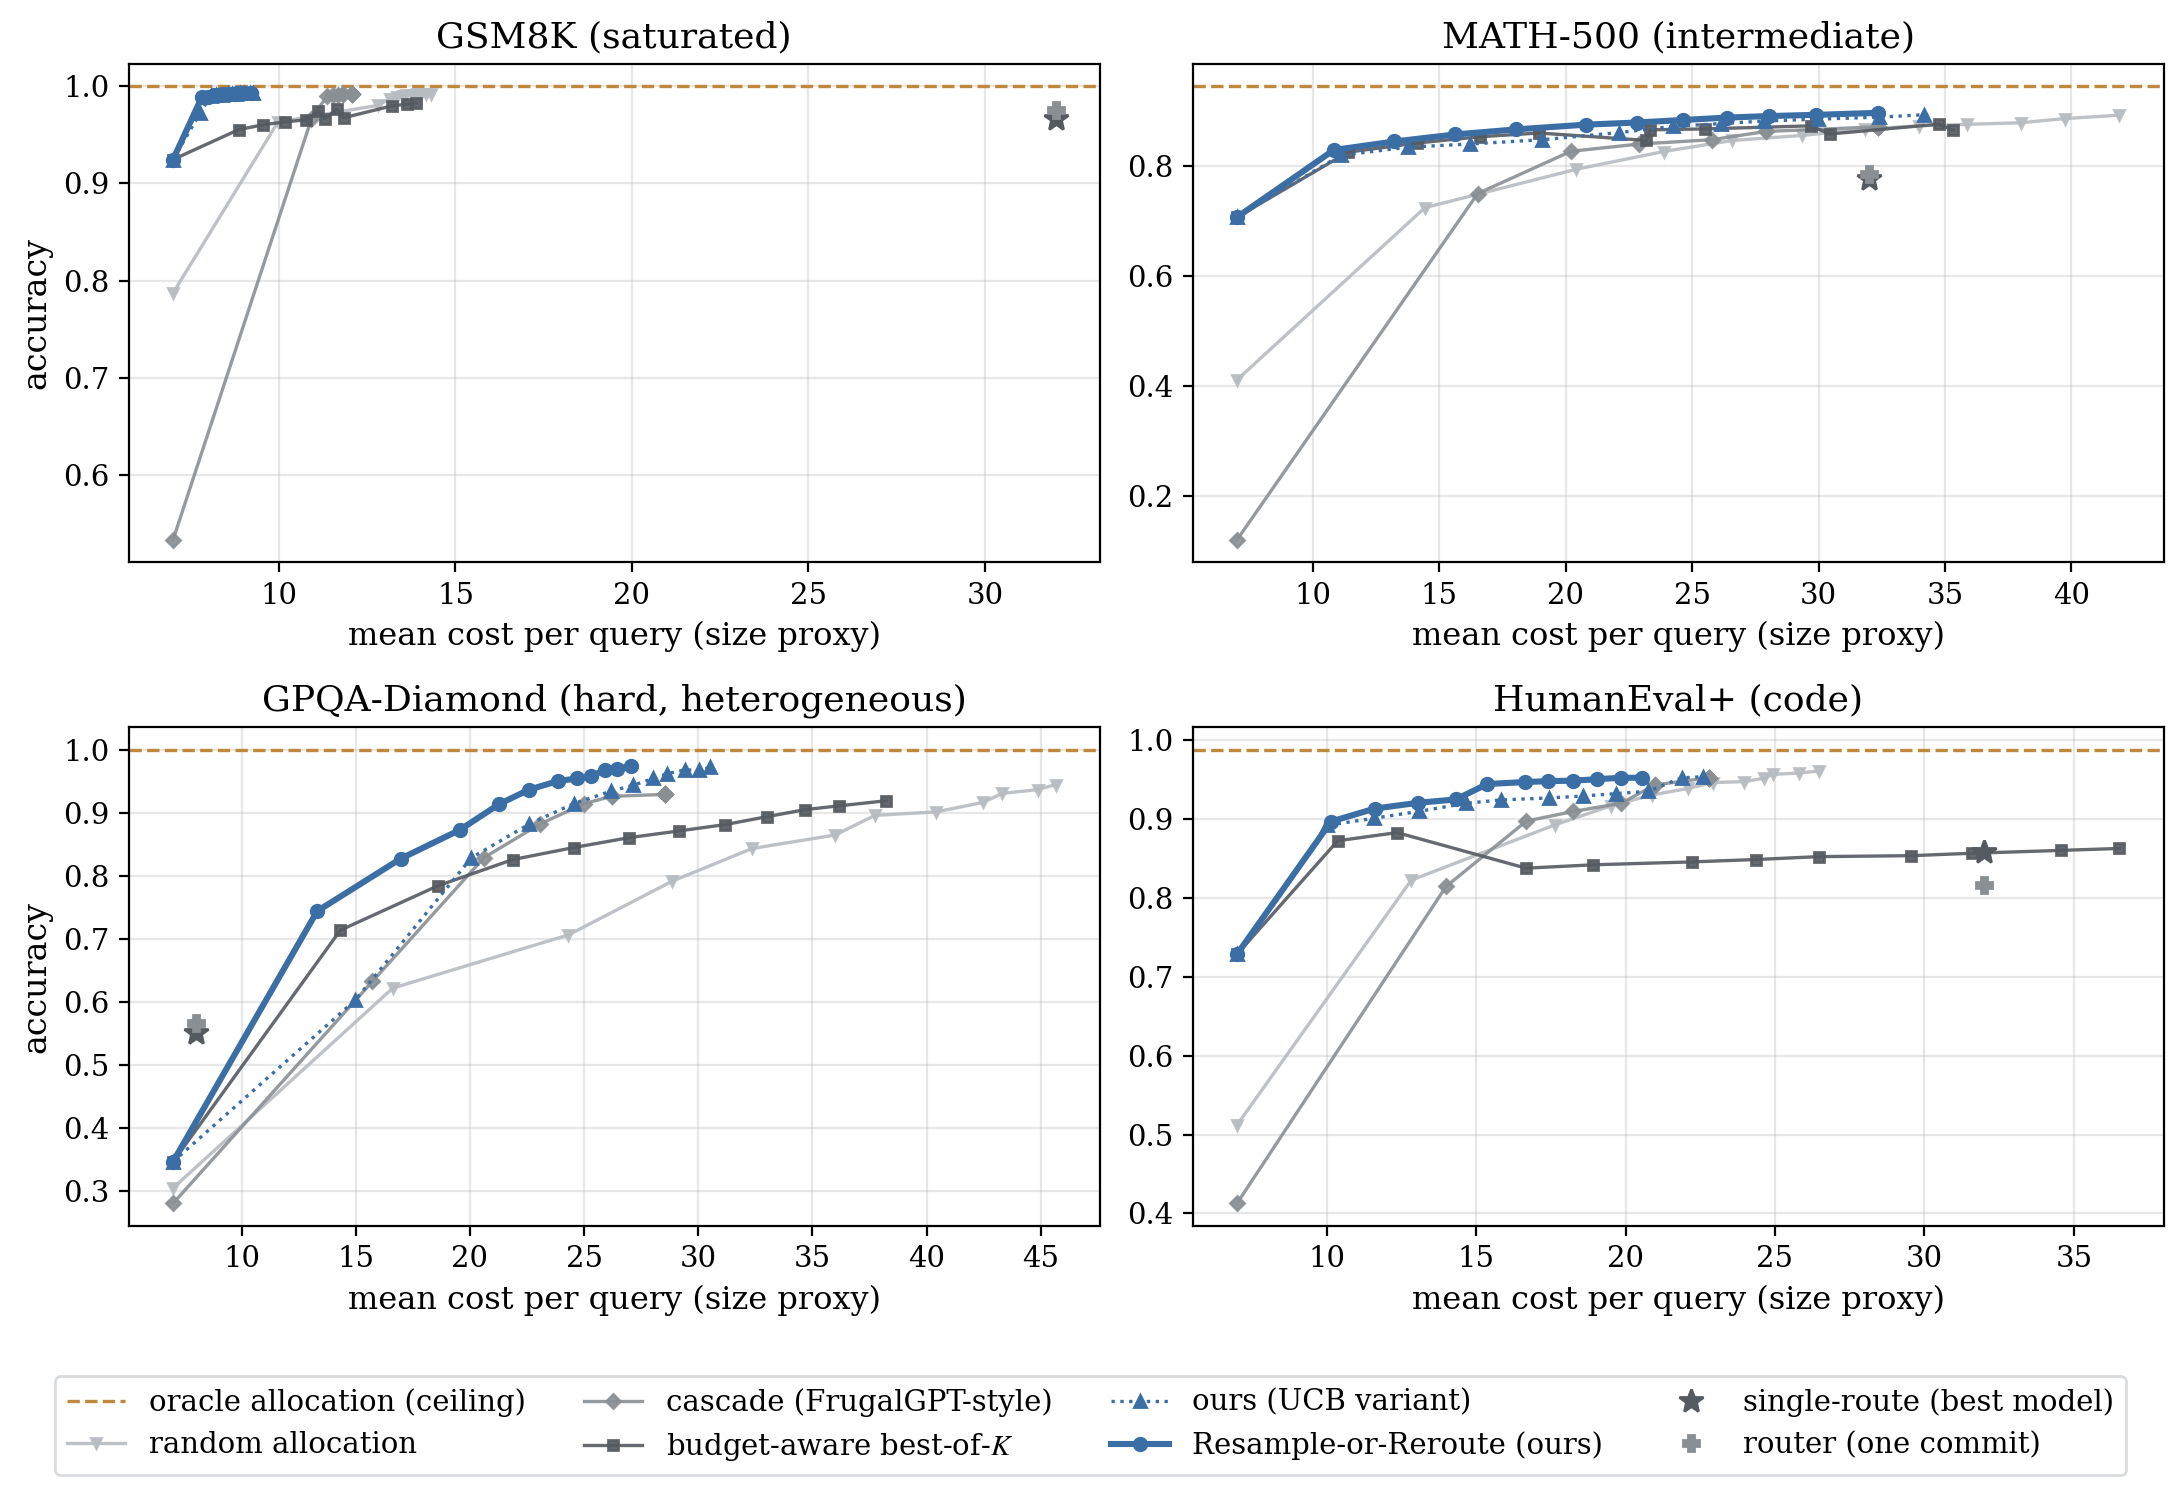
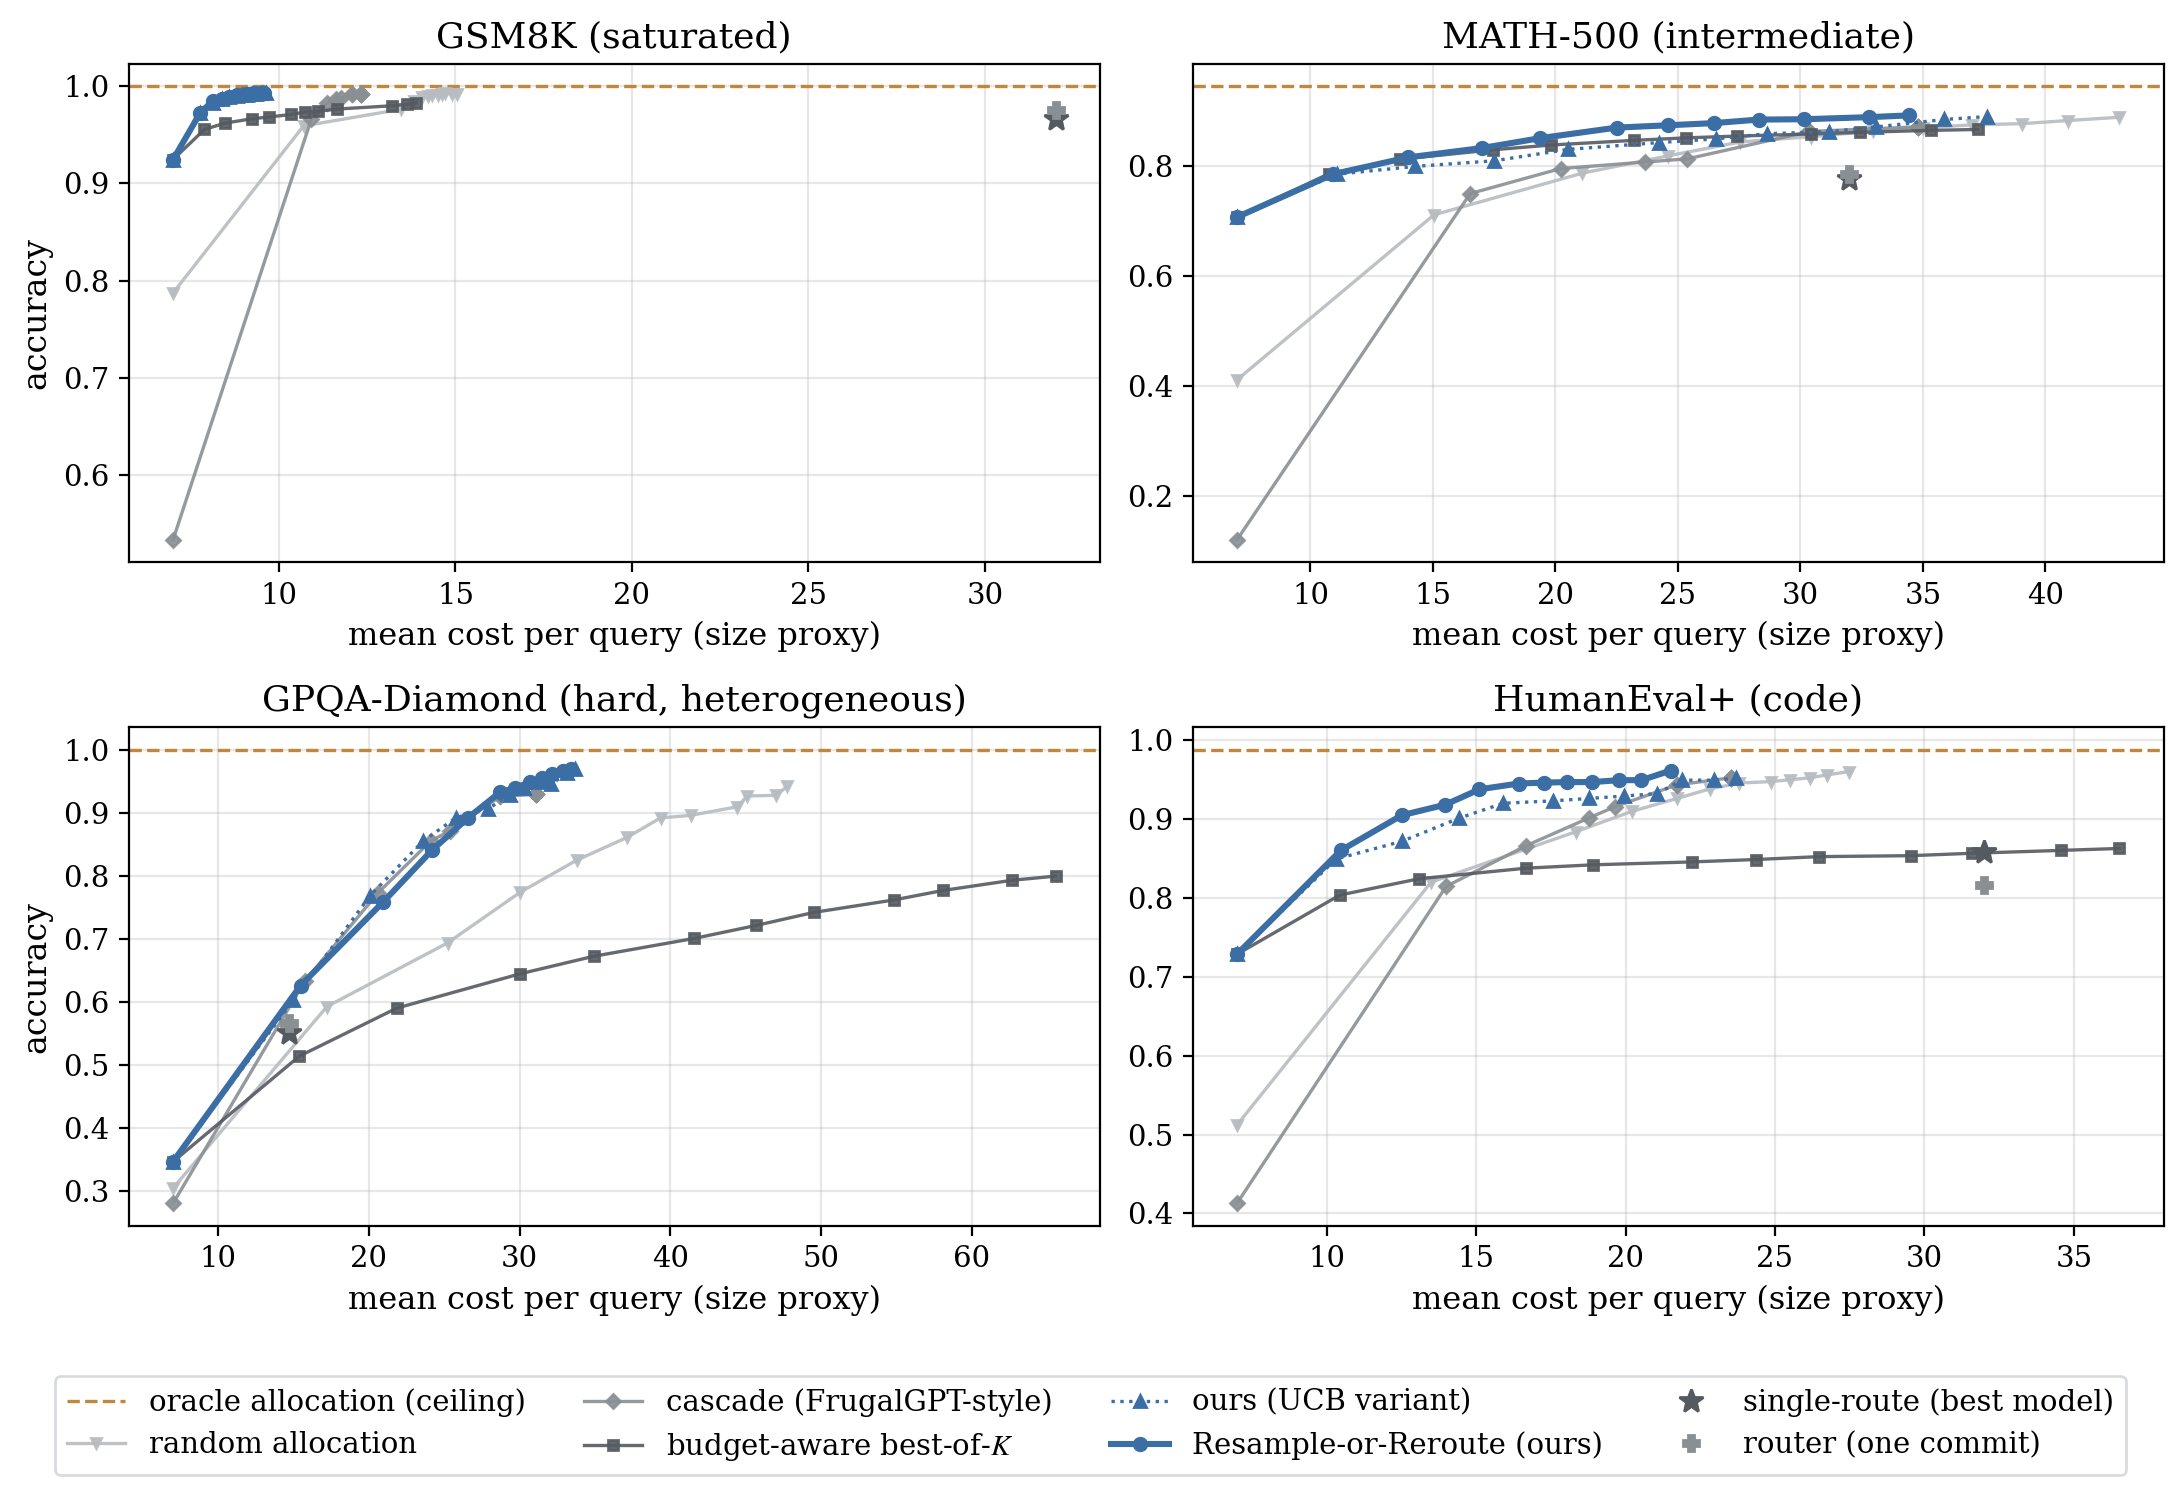
docs: refresh README numbers and figures for the corrected-cost (v2) results

diff --git a/README.md b/README.md
@@ -55,10 +55,10 @@ parameter-size proxy):
 
 | Policy | GSM8K | MATH-500 | GPQA-Diamond | HumanEval+ |
 |---|---:|---:|---:|---:|
-| **Resample-or-Reroute (ours)** | **0.993** | **0.887** | **0.968** | 0.952 |
-| budget-aware best-of-$K$ | 0.983 | 0.867 | 0.861 | 0.852 |
-| cascade (FrugalGPT-style) | 0.992 | 0.847 | 0.926 | 0.952 |
-| random allocation | 0.992 | 0.846 | 0.706 | 0.959 |
+| **Resample-or-Reroute (ours)** | **0.993** | **0.877** | **0.892** | **0.962** |
+| budget-aware best-of-$K$ | 0.983 | 0.850 | 0.644 | 0.852 |
+| cascade (FrugalGPT-style) | 0.992 | 0.812 | 0.872 | 0.952 |
+| random allocation | 0.992 | 0.818 | 0.693 | 0.952 |
 | single-route (best model) | 0.966 | 0.776 | 0.551 | 0.858 |
 | oracle allocation (ceiling) | 1.000 | 0.944 | 1.000 | 0.988 |
 
@@ -79,14 +79,16 @@ worth more than blind additional budget. See the figure above.
 
 ## Result 2 — Where the win comes from depends on the pool
 
-- **Saturated (GSM8K)** — the win is *cost*: 0.993 at 24–34% lower cost than
-  cascade / best-of-$K$, and 3.5× cheaper than single-routing the best model.
-- **Intermediate (MATH-500)** — 2.1 points above the strongest baseline at
-  matched cost, 10 points above the one-commit router at 18% lower cost.
+- **Saturated (GSM8K)** — the win is *cost*: 0.993 at 22–31% lower cost than
+  cascade / best-of-$K$, and 3.3× cheaper than single-routing the best model.
+- **Intermediate (MATH-500)** — 2.7 points above the strongest baseline at
+  matched cost, 9.3 points above the one-commit router at 17% lower cost.
 - **Heterogeneous (GPQA-Diamond)** — where specialists genuinely differ,
-  *rerouting* matters most: **+10.7 points** over best-of-$K$ at matched cost.
+  *rerouting* matters most: **+24.8 points** over the resample-only
+  best-of-$K$ at matched cost (the cascade, which also moves across models,
+  is the closest baseline at +2.1).
 - **Code (HumanEval+)** — matches the best single model's fixed-budget accuracy
-  at **~3.2× lower cost** in the low-budget regime.
+  at **~3.1× lower cost** in the low-budget regime.
 
 ## Result 3 — The gains are verifier-gated (the honest part)
 
@@ -101,8 +103,8 @@ verifiers — e.g. self-consistency on 4-way multiple choice (GPQA), where two
 wrong draws easily agree. Where a real *partial* verifier exists — base-test
 suites for code, measured false-accept ~1% — RoR stays essentially at its
 perfect-verifier ceiling. And on near-saturated benchmarks under a reliable
-verifier, undirected baselines (cascade, random) **converge to RoR at high
-budget** (the HumanEval+ column above). RoR's edge lives in the cost-constrained
+verifier, undirected baselines (cascade, random) **converge toward RoR at high
+budget** (though no longer exceeding it). RoR's edge lives in the cost-constrained
 middle, not in a high-budget ceiling. Robustness replays under a real provider
 price vector and a label-free agreement verifier delineate where these
 conclusions carry over.
